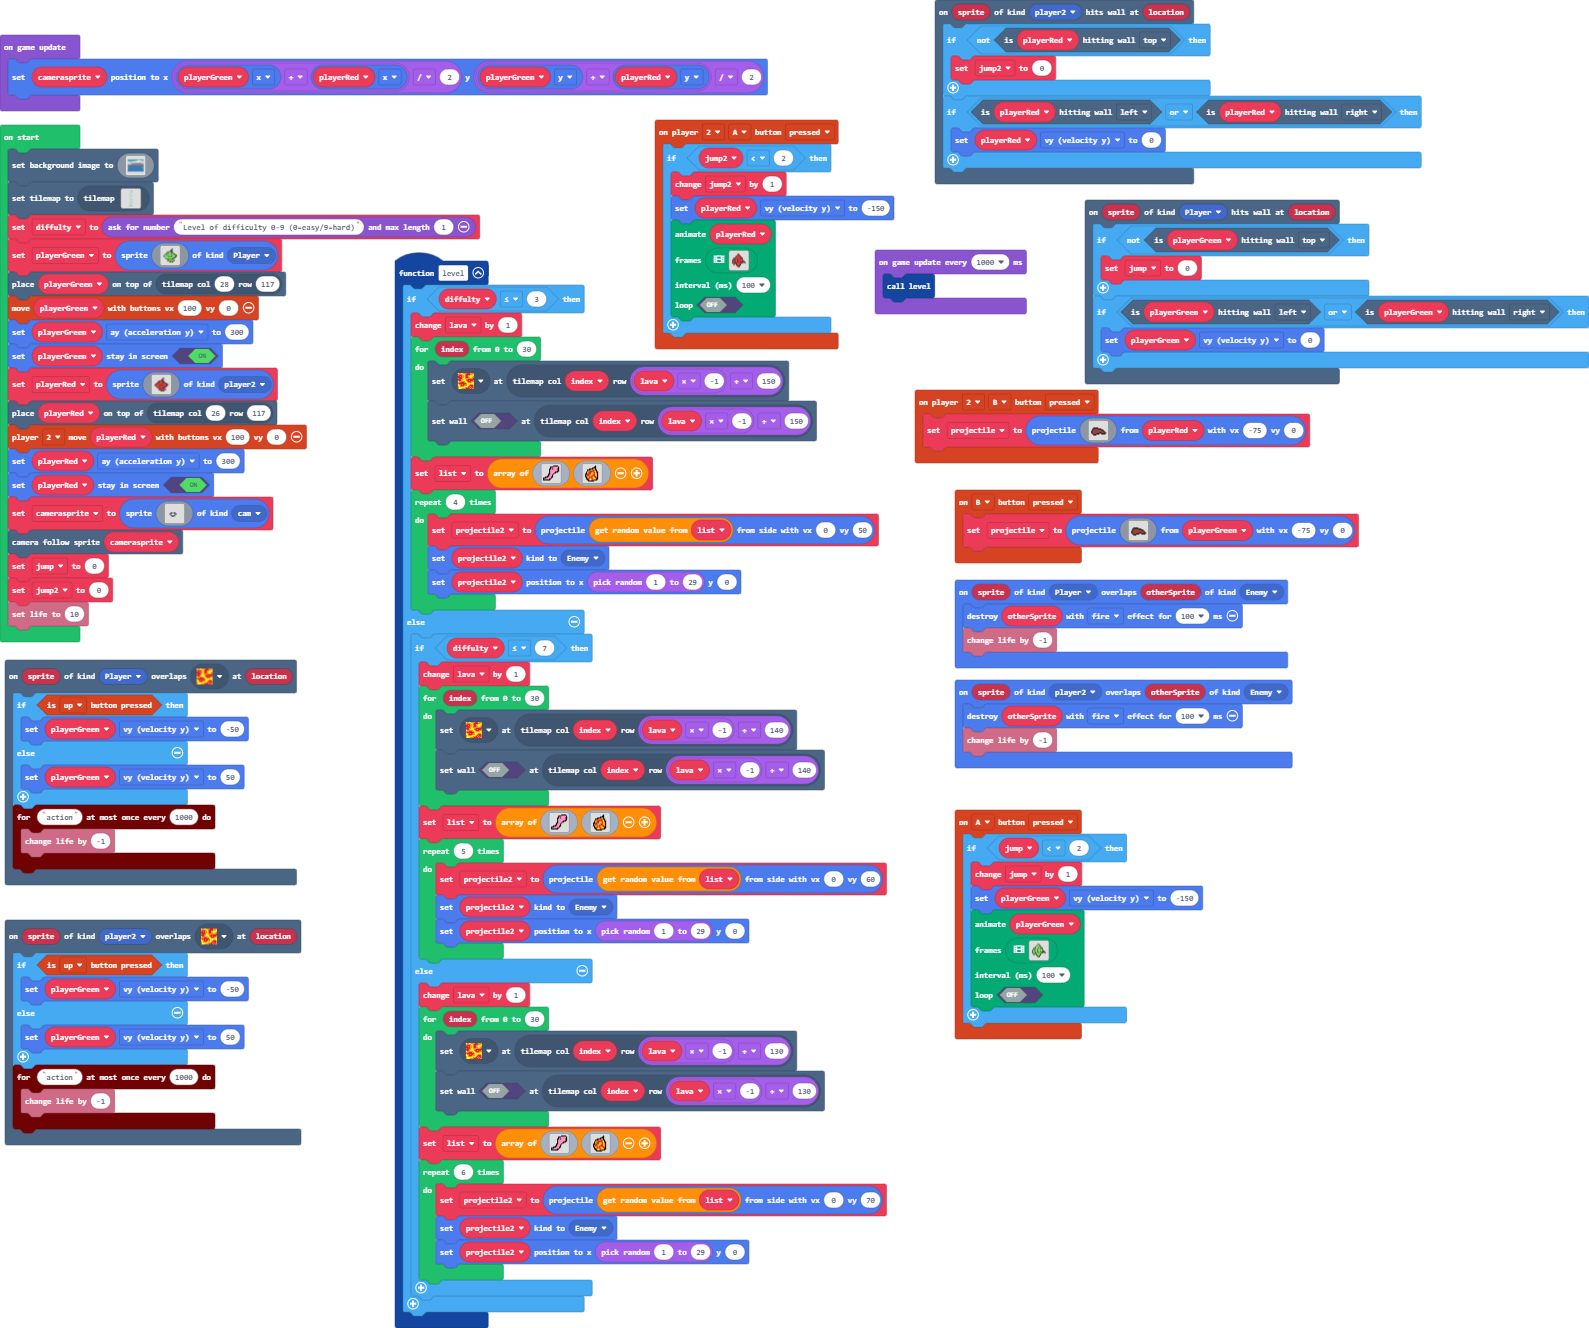
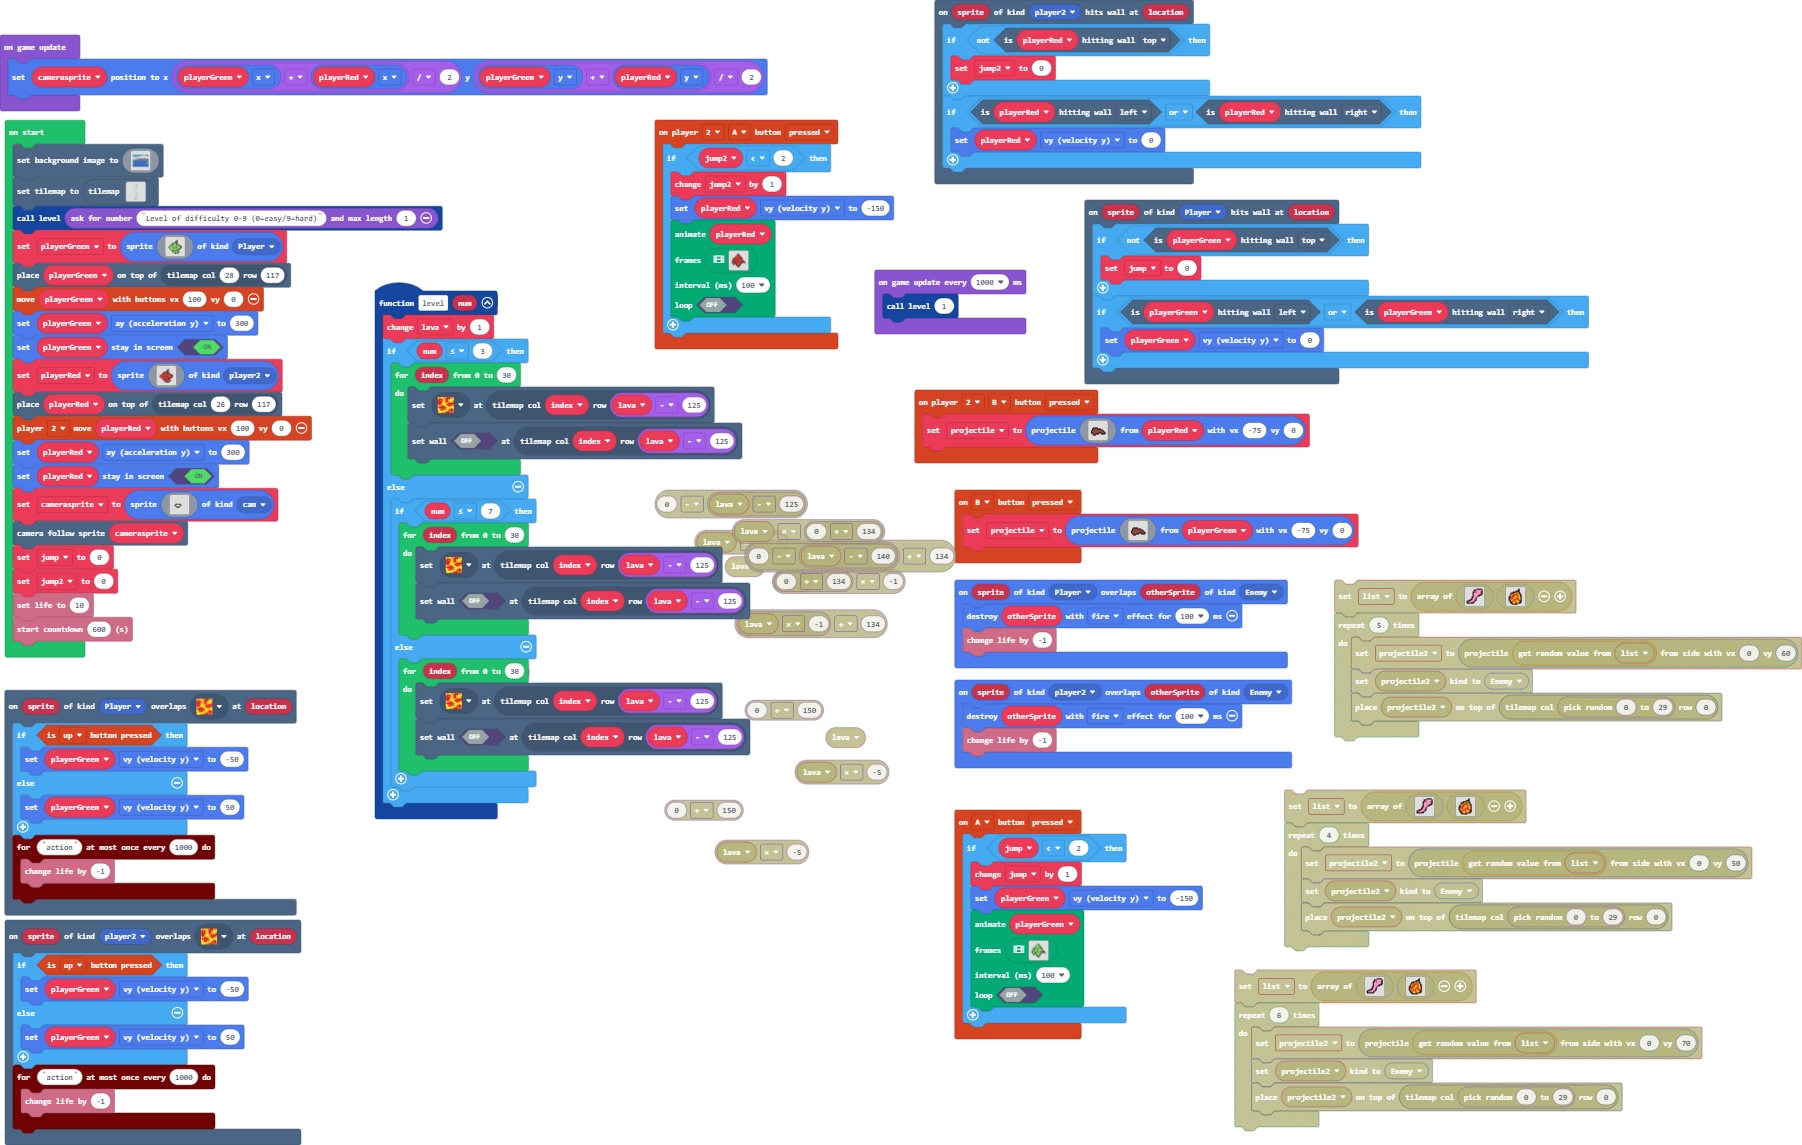
Update pxt.json, main.blocks, main.ts, tilemap.g.jres, tilemap.g.ts

diff --git a/main.ts b/main.ts
@@ -54,94 +54,23 @@ sprites.onOverlap(SpriteKind.player2, SpriteKind.Enemy, function (sprite, otherS
     sprites.destroy(otherSprite, effects.fire, 100)
     info.changeLifeBy(-1)
 })
-function level () {
-    if (diffulty <= 3) {
-        lava += 1
+function level (num: number) {
+    lava += 1
+    if (num <= 3) {
         for (let index = 0; index <= 30; index++) {
-            tiles.setTileAt(tiles.getTileLocation(index, lava * -1 + 150), sprites.dungeon.hazardLava1)
-            tiles.setWallAt(tiles.getTileLocation(index, lava * -1 + 150), false)
-        }
-        list = [assets.image`worm`, img`
-            . . . . . . . . . . . f . . . . 
-            . . . . . . . . . . f f . . . . 
-            . . . . . . . . f f f f . . . . 
-            . . . . . f f f f 5 5 f . . . . 
-            . . . f f f 4 5 4 2 2 f f . . . 
-            . . . f 5 4 2 2 2 2 5 5 f . . . 
-            . . f 5 2 2 2 2 4 2 2 5 f f . . 
-            . . f 4 4 2 2 5 5 4 2 5 4 f . . 
-            . f f 4 2 2 2 5 4 4 2 5 4 f . . 
-            . f 2 2 2 4 5 5 4 2 2 5 4 f . . 
-            . f 5 2 2 4 4 2 2 2 2 4 5 f . . 
-            . f f 5 5 2 4 2 4 5 2 2 2 f . . 
-            . . f 4 2 2 4 2 4 5 5 2 2 f . . 
-            . . f f 4 4 5 4 2 4 5 5 f f . . 
-            . . . f f 5 5 4 2 4 f f f . . . 
-            . . . . f f f f f f . . . . . . 
-            `]
-        for (let index = 0; index < 4; index++) {
-            projectile2 = sprites.createProjectileFromSide(list._pickRandom(), 0, 50)
-            projectile2.setKind(SpriteKind.Enemy)
-            projectile2.setPosition(randint(1, 29), 0)
+            tiles.setTileAt(tiles.getTileLocation(index, lava - 125), sprites.dungeon.hazardLava1)
+            tiles.setWallAt(tiles.getTileLocation(index, lava - 125), false)
         }
     } else {
-        if (diffulty <= 7) {
-            lava += 1
+        if (num <= 7) {
             for (let index = 0; index <= 30; index++) {
-                tiles.setTileAt(tiles.getTileLocation(index, lava * -1 + 140), sprites.dungeon.hazardLava1)
-                tiles.setWallAt(tiles.getTileLocation(index, lava * -1 + 140), false)
-            }
-            list = [assets.image`worm`, img`
-                . . . . . . . . . . . f . . . . 
-                . . . . . . . . . . f f . . . . 
-                . . . . . . . . f f f f . . . . 
-                . . . . . f f f f 5 5 f . . . . 
-                . . . f f f 4 5 4 2 2 f f . . . 
-                . . . f 5 4 2 2 2 2 5 5 f . . . 
-                . . f 5 2 2 2 2 4 2 2 5 f f . . 
-                . . f 4 4 2 2 5 5 4 2 5 4 f . . 
-                . f f 4 2 2 2 5 4 4 2 5 4 f . . 
-                . f 2 2 2 4 5 5 4 2 2 5 4 f . . 
-                . f 5 2 2 4 4 2 2 2 2 4 5 f . . 
-                . f f 5 5 2 4 2 4 5 2 2 2 f . . 
-                . . f 4 2 2 4 2 4 5 5 2 2 f . . 
-                . . f f 4 4 5 4 2 4 5 5 f f . . 
-                . . . f f 5 5 4 2 4 f f f . . . 
-                . . . . f f f f f f . . . . . . 
-                `]
-            for (let index = 0; index < 5; index++) {
-                projectile2 = sprites.createProjectileFromSide(list._pickRandom(), 0, 60)
-                projectile2.setKind(SpriteKind.Enemy)
-                projectile2.setPosition(randint(1, 29), 0)
+                tiles.setTileAt(tiles.getTileLocation(index, lava - 125), sprites.dungeon.hazardLava1)
+                tiles.setWallAt(tiles.getTileLocation(index, lava - 125), false)
             }
         } else {
-            lava += 1
             for (let index = 0; index <= 30; index++) {
-                tiles.setTileAt(tiles.getTileLocation(index, lava * -1 + 130), sprites.dungeon.hazardLava1)
-                tiles.setWallAt(tiles.getTileLocation(index, lava * -1 + 130), false)
-            }
-            list = [assets.image`worm`, img`
-                . . . . . . . . . . . f . . . . 
-                . . . . . . . . . . f f . . . . 
-                . . . . . . . . f f f f . . . . 
-                . . . . . f f f f 5 5 f . . . . 
-                . . . f f f 4 5 4 2 2 f f . . . 
-                . . . f 5 4 2 2 2 2 5 5 f . . . 
-                . . f 5 2 2 2 2 4 2 2 5 f f . . 
-                . . f 4 4 2 2 5 5 4 2 5 4 f . . 
-                . f f 4 2 2 2 5 4 4 2 5 4 f . . 
-                . f 2 2 2 4 5 5 4 2 2 5 4 f . . 
-                . f 5 2 2 4 4 2 2 2 2 4 5 f . . 
-                . f f 5 5 2 4 2 4 5 2 2 2 f . . 
-                . . f 4 2 2 4 2 4 5 5 2 2 f . . 
-                . . f f 4 4 5 4 2 4 5 5 f f . . 
-                . . . f f 5 5 4 2 4 f f f . . . 
-                . . . . f f f f f f . . . . . . 
-                `]
-            for (let index = 0; index < 6; index++) {
-                projectile2 = sprites.createProjectileFromSide(list._pickRandom(), 0, 70)
-                projectile2.setKind(SpriteKind.Enemy)
-                projectile2.setPosition(randint(1, 29), 0)
+                tiles.setTileAt(tiles.getTileLocation(index, lava - 125), sprites.dungeon.hazardLava1)
+                tiles.setWallAt(tiles.getTileLocation(index, lava - 125), false)
             }
         }
     }
@@ -322,15 +251,12 @@ sprites.onOverlap(SpriteKind.Player, SpriteKind.Enemy, function (sprite, otherSp
     sprites.destroy(otherSprite, effects.fire, 100)
     info.changeLifeBy(-1)
 })
-let projectile2: Sprite = null
-let list: Image[] = []
 let lava = 0
 let projectile: Sprite = null
 let jump2 = 0
 let jump = 0
 let playerRed: Sprite = null
 let playerGreen: Sprite = null
-let diffulty = 0
 scene.setBackgroundImage(img`
     6666666666666666666666666666666666666666666666666666666666666666666666666666666666666666666666666666666666666666666666666666666666666666666666666666666666666666
     6666666666666666666666666666666666666666666666666666666666666666666666666666666666666666666666666666666666666666666666666666666666666666666666666666666666666666
@@ -454,7 +380,7 @@ scene.setBackgroundImage(img`
[1 lines of base64/hex data omitted]
     `)
 tiles.setCurrentTilemap(tilemap`level1`)
-diffulty = game.askForNumber("Level of difficulty 0-9 (0=easy/9=hard)", 1)
+level(game.askForNumber("Level of difficulty 0-9 (0=easy/9=hard)", 1))
 playerGreen = sprites.create(assets.image`green apple`, SpriteKind.Player)
 tiles.placeOnTile(playerGreen, tiles.getTileLocation(28, 117))
 controller.moveSprite(playerGreen, 100, 0)
@@ -487,9 +413,10 @@ scene.cameraFollowSprite(camerasprite)
 jump = 0
 jump2 = 0
 info.setLife(10)
+info.startCountdown(600)
 game.onUpdate(function () {
     camerasprite.setPosition((playerGreen.x + playerRed.x) / 2, (playerGreen.y + playerRed.y) / 2)
 })
 game.onUpdateInterval(1000, function () {
-    level()
+    level(1)
 })

diff --git a/tilemap.g.ts b/tilemap.g.ts
@@ -133,6 +133,44 @@ namespace myTiles {
 ..............................
 ..............................
 `, [myTiles.transparency16,sprites.castle.tileGrass2,sprites.dungeon.hazardLava1,sprites.castle.tileDarkGrass3], TileScale.Sixteen);
+            case "level2":
+            case "level2":return tiles.createTilemap(hex`1000100000000000000000000000000000000000000000000000000000000000000000000000000000000000000000000000000000000000000000000000000000000000000000000000000000000000000000000000000000000000000000000000000000000000000000000000000000000000000000000000000000000000000000000000000000000000000000000000000000000000000000000000000000000000000000000000000000000000000000000000000000000000000000000000000000000000000000000000000000000000000000000000000000000000000000000000000000000000000000000000000000000000000000000000000000000000`, img`
+. . . . . . . . . . . . . . . . 
+. . . . . . . . . . . . . . . . 
+. . . . . . . . . . . . . . . . 
+. . . . . . . . . . . . . . . . 
+. . . . . . . . . . . . . . . . 
+. . . . . . . . . . . . . . . . 
+. . . . . . . . . . . . . . . . 
+. . . . . . . . . . . . . . . . 
+. . . . . . . . . . . . . . . . 
+. . . . . . . . . . . . . . . . 
+. . . . . . . . . . . . . . . . 
+. . . . . . . . . . . . . . . . 
+. . . . . . . . . . . . . . . . 
+. . . . . . . . . . . . . . . . 
+. . . . . . . . . . . . . . . . 
+. . . . . . . . . . . . . . . . 
+`, [myTiles.transparency16], TileScale.Sixteen);
+            case "level3":
+            case "level3":return tiles.createTilemap(hex`1000100000000000000000000000000000000000000000000000000000000000000000000000000000000000000000000000000000000000000000000000000000000000000000000000000000000000000000000000000000000000000000000000000000000000000000000000000000000000000000000000000000000000000000000000000000000000000000000000000000000000000000000000000000000000000000000000000000000000000000000000000000000000000000000000000000000000000000000000000000000000000000000000000000000000000000000000000000000000000000000000000000000000000000000000000000000000`, img`
+. . . . . . . . . . . . . . . . 
+. . . . . . . . . . . . . . . . 
+. . . . . . . . . . . . . . . . 
+. . . . . . . . . . . . . . . . 
+. . . . . . . . . . . . . . . . 
+. . . . . . . . . . . . . . . . 
+. . . . . . . . . . . . . . . . 
+. . . . . . . . . . . . . . . . 
+. . . . . . . . . . . . . . . . 
+. . . . . . . . . . . . . . . . 
+. . . . . . . . . . . . . . . . 
+. . . . . . . . . . . . . . . . 
+. . . . . . . . . . . . . . . . 
+. . . . . . . . . . . . . . . . 
+. . . . . . . . . . . . . . . . 
+. . . . . . . . . . . . . . . . 
+`, [myTiles.transparency16], TileScale.Sixteen);
         }
         return null;
     })
